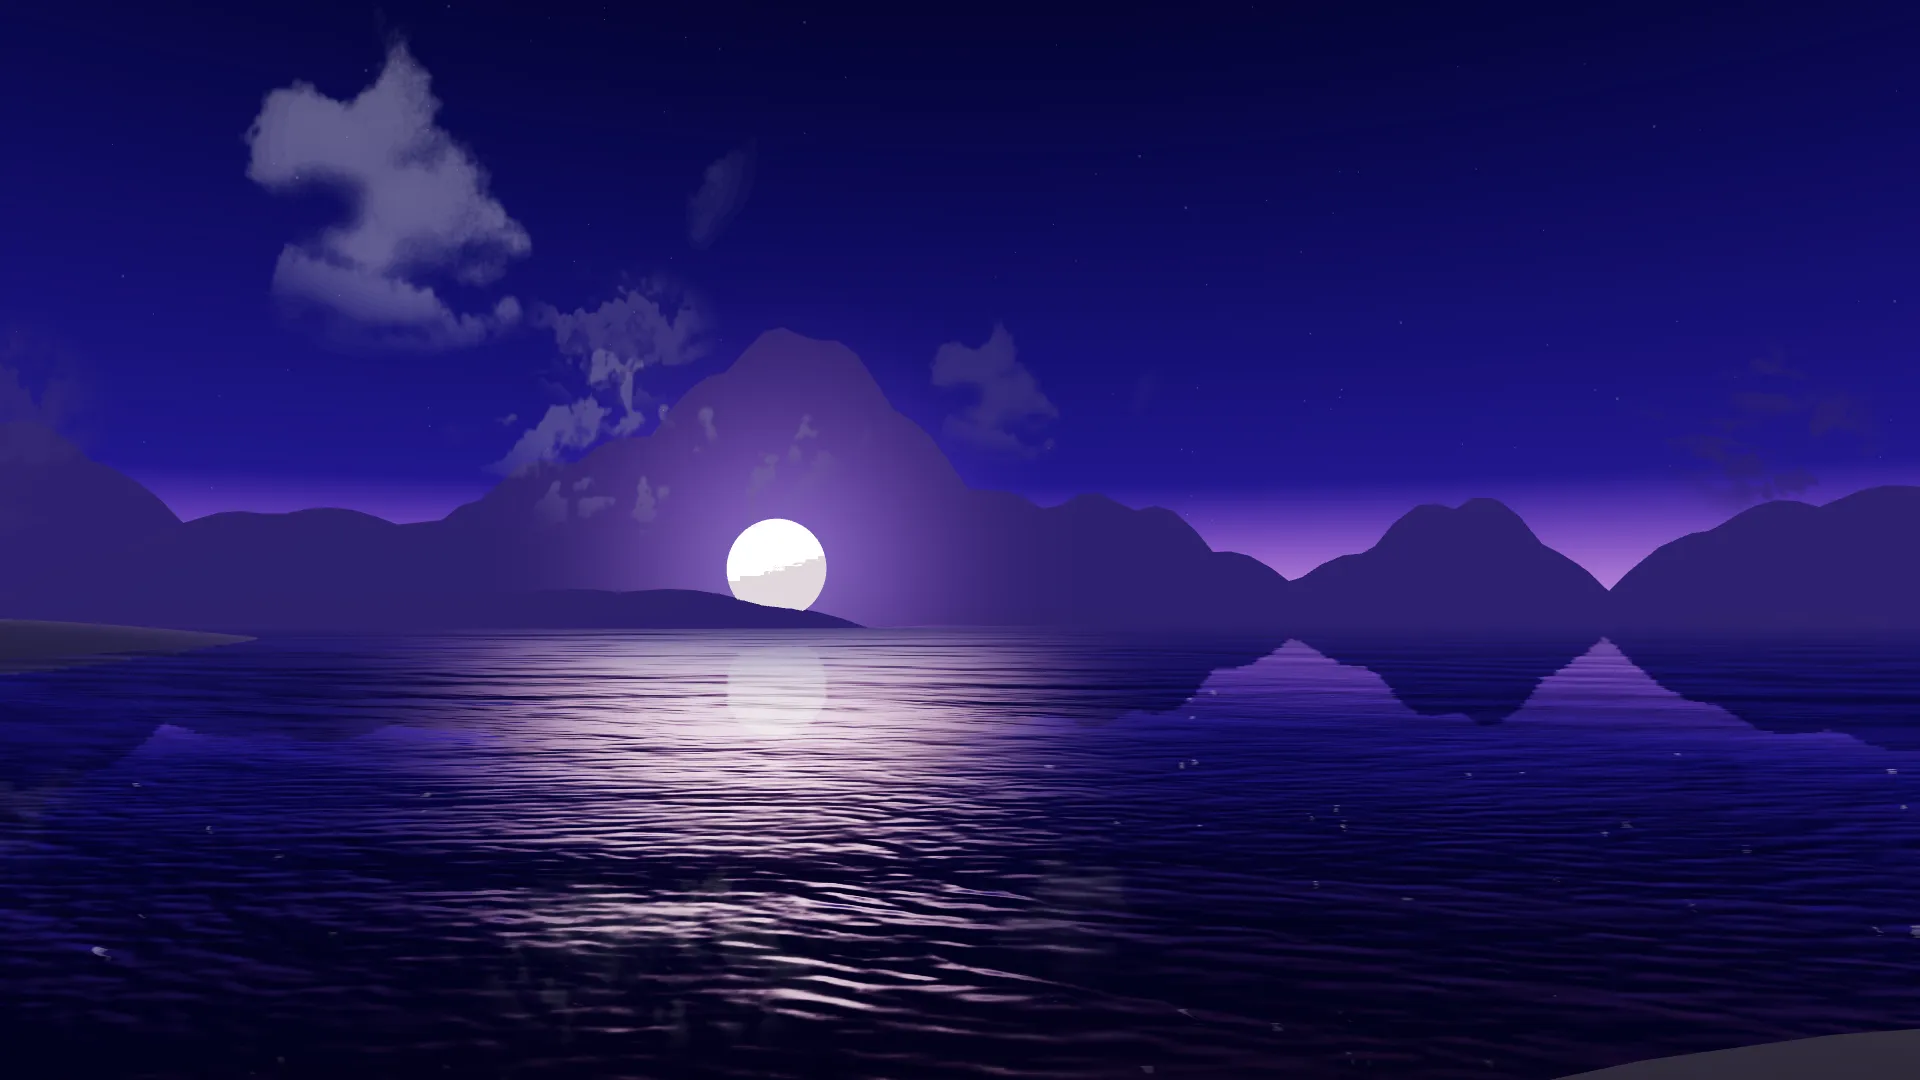
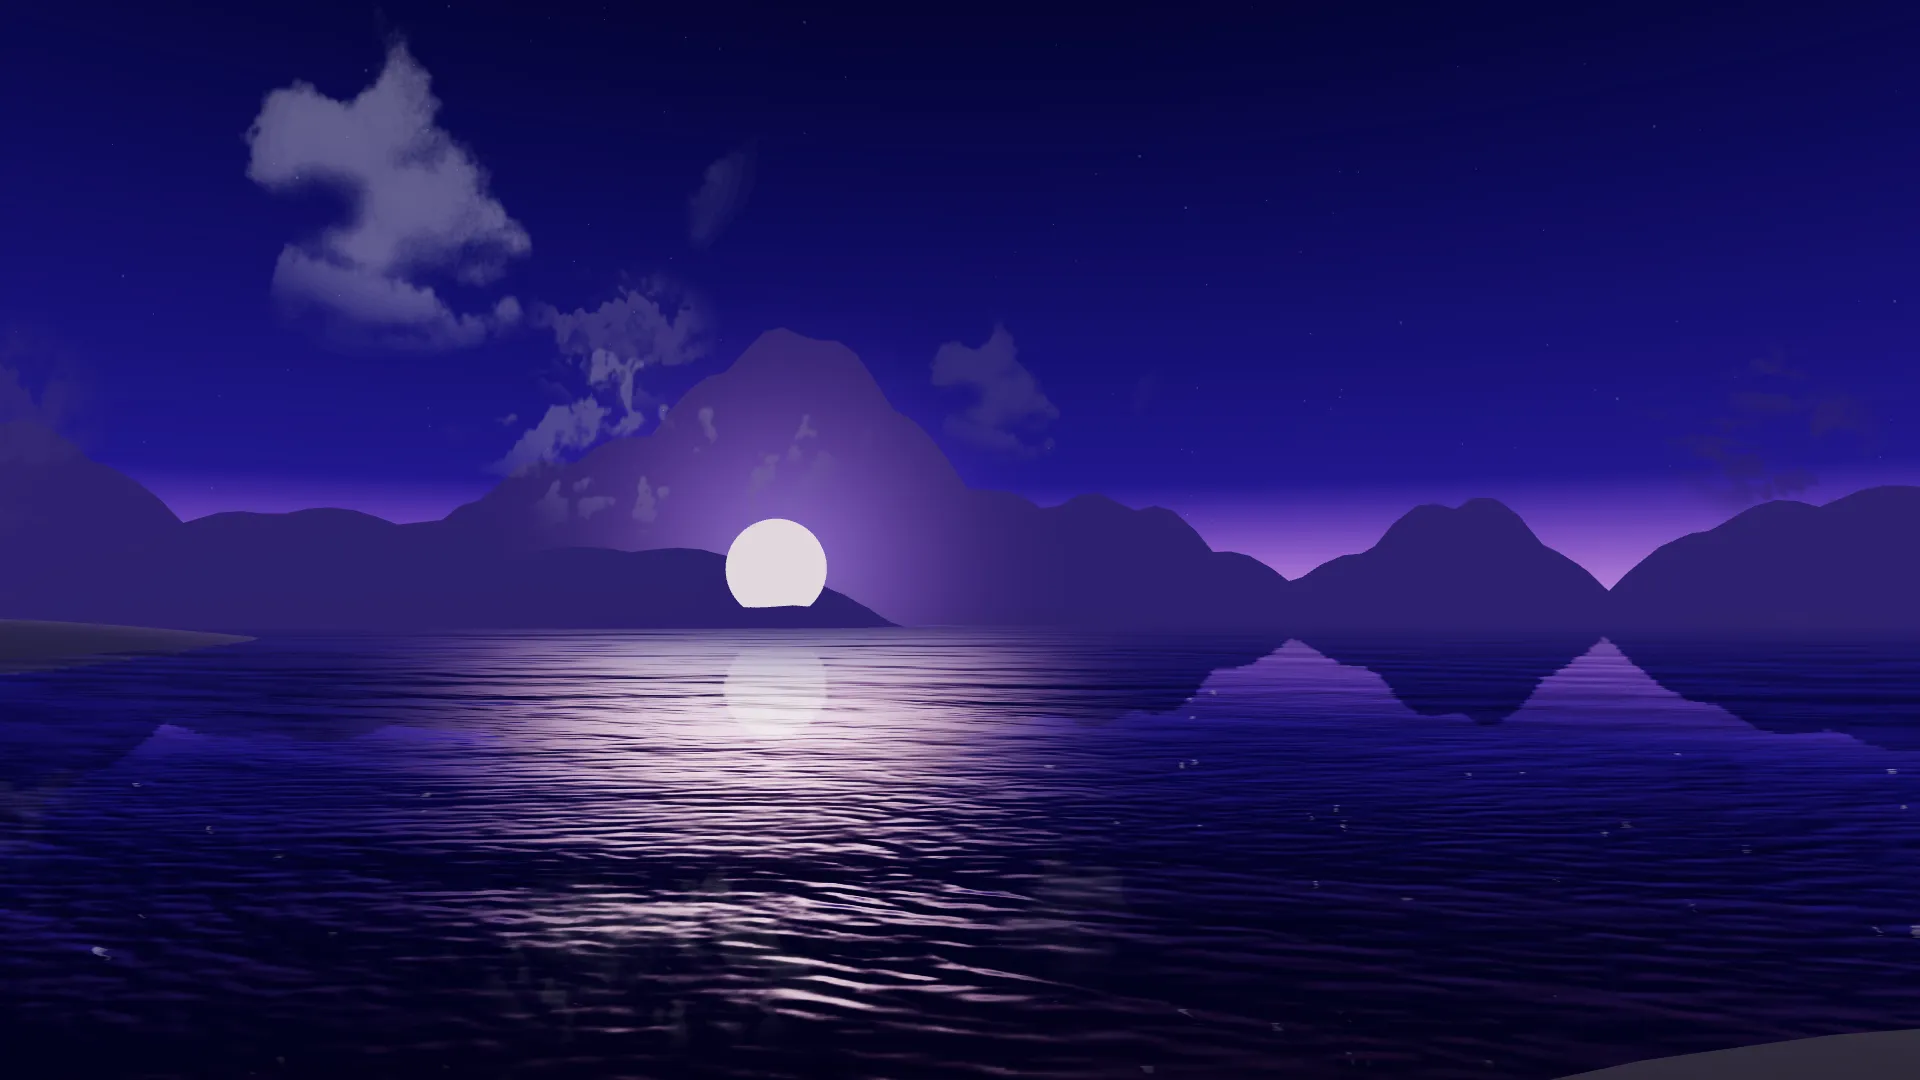
the constant circle

Changed region(s): [[0.3125, 0.4583, 0.4688, 0.5806]]

diff --git a/src/components/boring/heroScene.ts b/src/components/boring/heroScene.ts
@@ -229,6 +229,13 @@ export async function buildHeroScene(scene: THREE.Scene, renderer: THREE.WebGLRe
   scene.add(rim)
 
   const sun = new THREE.Mesh(new THREE.CircleGeometry(9, 64), new THREE.MeshBasicMaterial({ color: 0xffe2f0, fog: false }))
+  // A flat disc: turned to face whichever camera draws it (the view, and the lake's mirror), so it stays round
+  // instead of squashing into a tilting ellipse as the camera flies and sways.
+  const viewer = new THREE.Vector3()
+  sun.onBeforeRender = (_r, _s, cam) => {
+    sun.lookAt(viewer.setFromMatrixPosition(cam.matrixWorld))
+    sun.updateMatrixWorld()
+  }
   scene.add(sun)
   const halo = new THREE.Sprite(new THREE.SpriteMaterial({ map: glowTexture('rgba(255,170,220,0.55)'), blending: THREE.AdditiveBlending, depthWrite: false, fog: false, transparent: true }))
   halo.scale.set(120, 120, 1)
@@ -390,7 +397,9 @@ export async function buildHeroScene(scene: THREE.Scene, renderer: THREE.WebGLRe
     fog.color.copy(fogC)
     const sunY = keyframe(KEYS.sunY, index)
     sun.position.set(SUN_XZ[0], sunY, SUN_XZ[1])
-    halo.position.copy(sun.position)
+    // The glow sits a little behind the disc (away from the camera): at the same point, its plane would cut through
+    // the disc's and light one half of it, a seam that swings around as the camera moves.
+    halo.position.copy(sun.position).addScaledVector(sunDir.subVectors(sun.position, pos).normalize(), 6)
     sunDir.copy(sun.position).normalize()
     sunLight.position.copy(sunDir).multiplyScalar(100)
     sunLight.intensity = keyframe(KEYS.sun, index)
